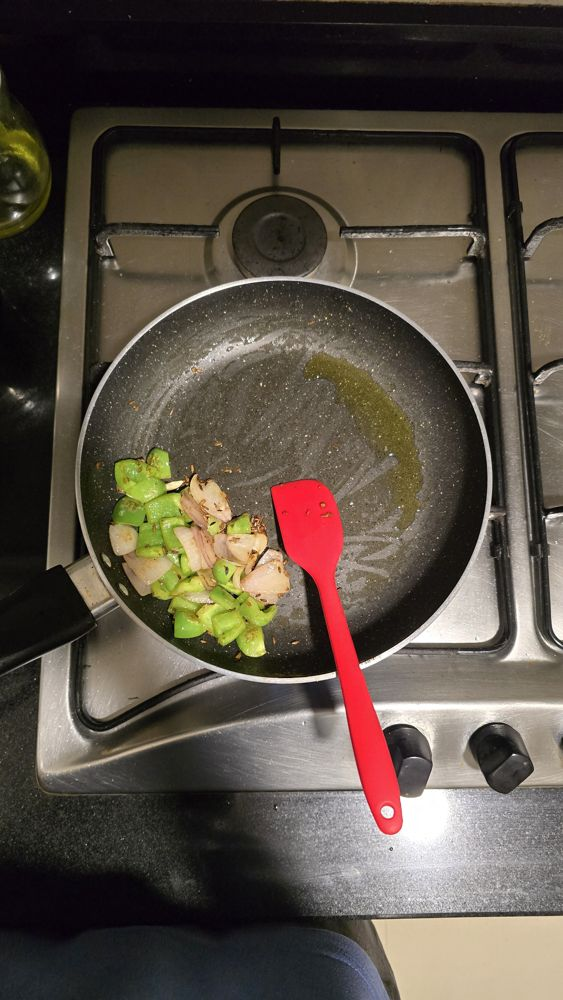
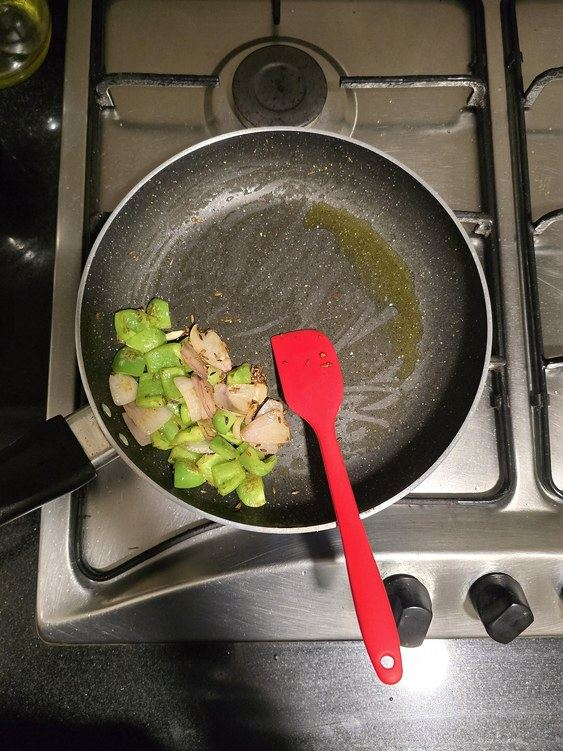
feat(cooking): crop the paneer photo set + add a finished-dish hero to every recipe
Two changes, both from reviewing the live pages.

Photos — all 18 paneer shots recropped to a uniform 3:4:
- 11 of the stove shots carried 15-25% dead space at the bottom (oven front,
  control knobs, kitchen floor); three of them had the photographer's legs in
  frame. Each crop is offset individually so the pan stays centred.
- Two exceptions cropped tighter than 3:4 on request: 05_paneer_cubed drops the
  stray capsicum and bare board, 10_paneer_patted_dry keeps only the paneer on
  the towel (its onion and capsicum sat along the TOP, so it crops from there).
- Recropped from the 4000px originals in the srinidhi-cooks repo, not the
  already-downsized web copies, so there is no generational quality loss.
  Re-encoded to land 62 KB under the previous total.
- Bonus: PhotoGrid uses items-start with no CSS cropping, so uneven photo
  heights left ragged gaps. A uniform aspect makes the grid rows line up.

Hero image — RecipeHero gains an optional heroPhoto prop:
- Shows the finished dish immediately below the title and tagline, so the
  reader sees the destination before reading a word.
- Photo beside the intro prose from `md` up, stacked above it on a phone.
  No loading="lazy" — it is above the fold. Omitting the prop renders the
  hero exactly as before.
- Wired into all four recipe pages (paneer, soya kurma, moringa pizza,
  roasted veg).

Verified: 140/140 tests, CI=true build clean, hero measured side-by-side at
1280px and stacked at 375px with no horizontal overflow.

diff --git a/src/components/cooking/RecipeBits.js b/src/components/cooking/RecipeBits.js
@@ -115,13 +115,19 @@ export const AtAGlance = ({ facts }) => (
  * The top of a recipe page. Heading + intro animate ON MOUNT (they're above the
  * fold, so there's nothing to "scroll into view"), unlike the Sections below.
  *
- * @param props.title    main recipe title
- * @param props.subtitle the playful one-liner under the title
- * @param props.facts    array of "at a glance" chip strings
- * @param props.children the intro paragraphs — passed as JSX so inline <strong>
- *                       / <em> emphasis stays easy to write in each recipe page
+ * @param props.title     main recipe title
+ * @param props.subtitle  the playful one-liner under the title
+ * @param props.facts     array of "at a glance" chip strings
+ * @param props.heroPhoto optional { src, alt } — the FINISHED DISH, shown right at
+ *                        the top so the reader sees what they're cooking towards
+ *                        before reading a word. On a wide screen it sits BESIDE the
+ *                        intro prose (photo left, text right); on a phone the flex
+ *                        direction collapses and it stacks above the text. Omit it
+ *                        and the hero renders exactly as it did before.
+ * @param props.children  the intro paragraphs — passed as JSX so inline <strong>
+ *                        / <em> emphasis stays easy to write in each recipe page
  */
-export const RecipeHero = ({ title, subtitle, facts, children }) => (
+export const RecipeHero = ({ title, subtitle, facts, heroPhoto, children }) => (
   <>
     <motion.div
       initial={{ opacity: 0, y: -10 }}
@@ -139,8 +145,26 @@ export const RecipeHero = ({ title, subtitle, facts, children }) => (
       transition={{ duration: 0.6, delay: 0.1 }}
       className={cardClass}
     >
-      {children}
-      {facts && facts.length > 0 && <AtAGlance facts={facts} />}
+      {/* With a hero photo: two columns from `md` up, stacked below it.
+          Without one: a plain block, so existing pages are untouched. */}
+      <div className={heroPhoto ? 'md:flex md:items-start md:gap-6' : undefined}>
+        {heroPhoto && (
+          <figure className="mb-5 md:mb-0 md:w-2/5 lg:w-1/3 md:flex-shrink-0">
+            {/* No loading="lazy" here — this one is above the fold, so it should
+                start downloading immediately rather than waiting on the scroll. */}
+            <img
+              src={heroPhoto.src}
+              alt={heroPhoto.alt}
+              className="w-full h-auto rounded-xl shadow-md"
+            />
+          </figure>
+        )}
+        {/* min-w-0 stops long words in the prose from blowing out the flex column. */}
+        <div className="min-w-0">
+          {children}
+          {facts && facts.length > 0 && <AtAGlance facts={facts} />}
+        </div>
+      </div>
     </motion.article>
   </>
 );

diff --git a/src/components/pages/CookingSoyaKurma.js b/src/components/pages/CookingSoyaKurma.js
@@ -145,6 +145,10 @@ const CookingSoyaKurma = () => {
         title="Soya Chunk & Peas Coconut Kurma"
         subtitle="Or: the day I had no tomatoes, which turned out to be the best thing that could have happened."
         facts={atAGlance}
+        heroPhoto={{
+          src: `${IMG}/s3_27_final_plate.jpg`,
+          alt: 'The finished plate of kurma and rajamudi rice',
+        }}
       >
         <p className="text-gray-700 dark:text-gray-300 leading-relaxed mb-4">
           I had a packet of soya chunks, a vague ambition to eat something healthy, and a deadline of

diff --git a/src/components/pages/CookingPaneerGheeRoast.js b/src/components/pages/CookingPaneerGheeRoast.js
@@ -151,6 +151,10 @@ const CookingPaneerGheeRoast = () => {
         title="Paneer Ghee Roast"
         subtitle="Or: what to cook when there is no curd in the house and dinner is in thirty minutes."
         facts={atAGlance}
+        heroPhoto={{
+          src: `${IMG}/s5_30_final_plate.jpg`,
+          alt: 'The finished paneer ghee roast plated on a white plate',
+        }}
       >
         <p className="text-gray-700 dark:text-gray-300 leading-relaxed mb-4">
           It was seven in the evening, I had a 200 g packet of paneer, a cup of leftover bisi bele

diff --git a/src/components/pages/CookingRoastedVeg.js b/src/components/pages/CookingRoastedVeg.js
@@ -130,6 +130,10 @@ const CookingRoastedVeg = () => {
         title="Roasted Veg + Khichdi"
         subtitle="My very first solo cook — and the technique everything else is built on."
         facts={atAGlance}
+        heroPhoto={{
+          src: `${IMG}/s1_15_final_with_khichdi.jpg`,
+          alt: 'Roasted vegetables served with khichdi',
+        }}
       >
         <p className="text-gray-700 dark:text-gray-300 leading-relaxed mb-4">
           Honestly, this wasn't really about the food. I'm learning to cook — and, more than that,

diff --git a/src/components/pages/CookingMoringaPizza.js b/src/components/pages/CookingMoringaPizza.js
@@ -153,6 +153,7 @@ const CookingMoringaPizza = () => {
         title="Moringa-Pesto Pizza"
         subtitle="Or: the time I put drumstick leaves on a pizza — and it actually worked."
         facts={atAGlance}
+        heroPhoto={{ src: `${IMG}/s2_23_final_pizza.jpg`, alt: 'The finished pizza' }}
       >
         <p className="text-gray-700 dark:text-gray-300 leading-relaxed mb-4">
           I am <em>not</em> a chef. But I'm learning to cook, and one Sunday I decided my first real
